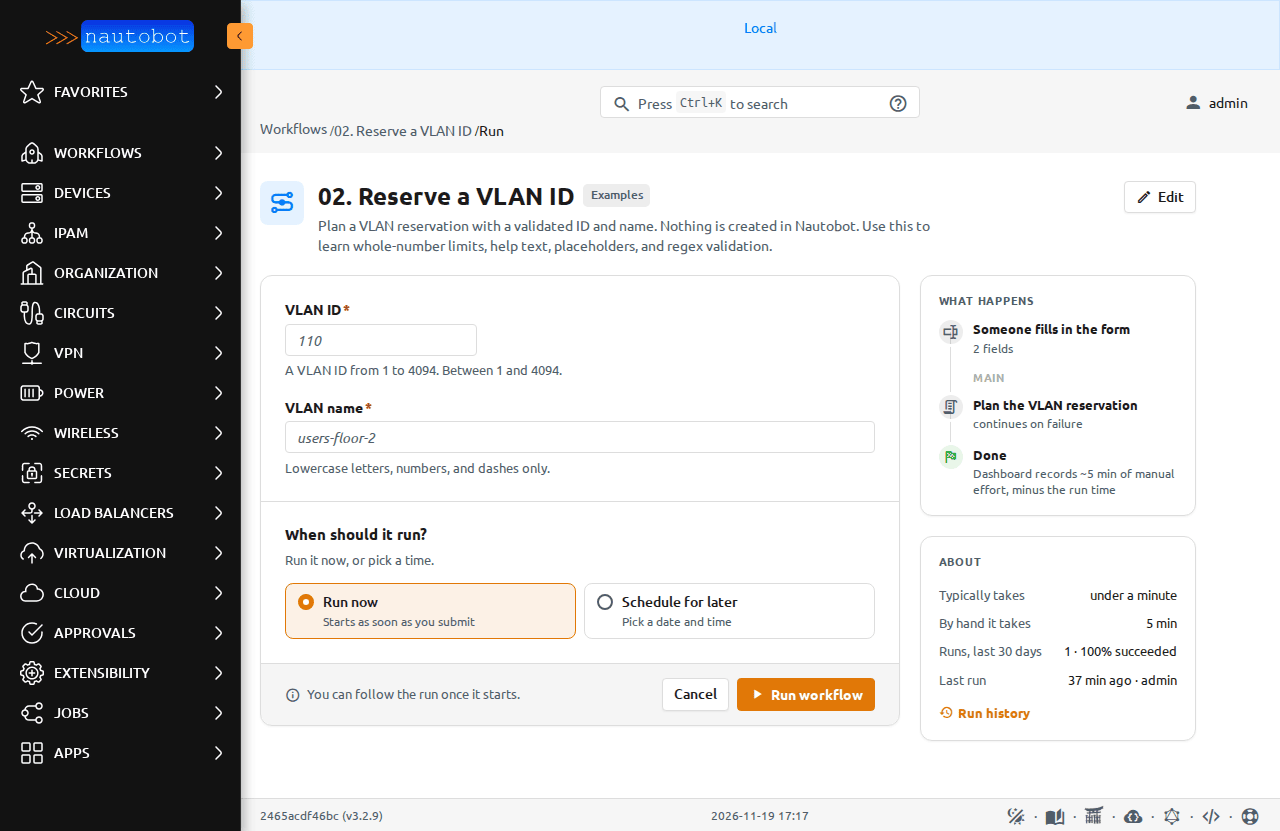
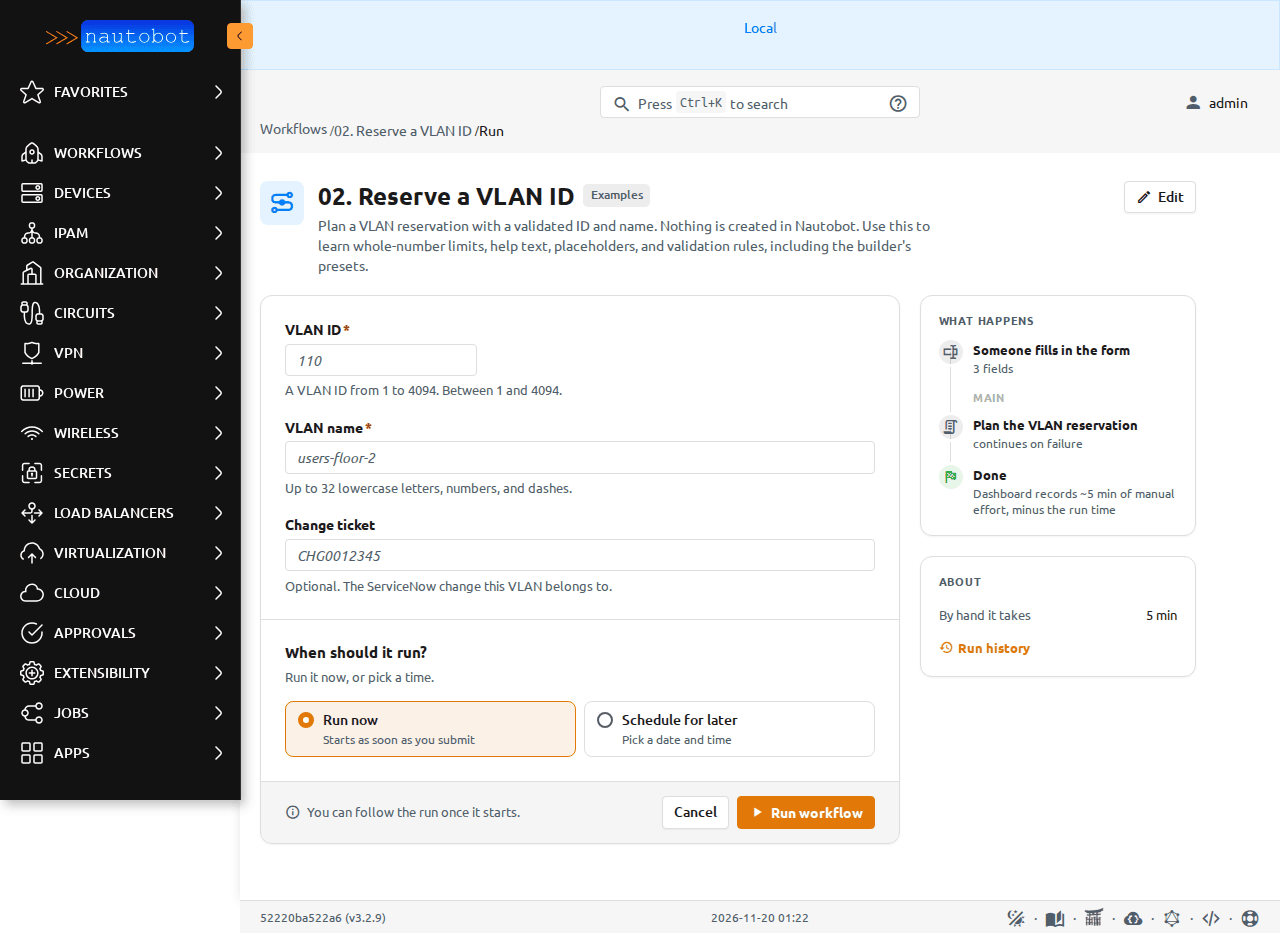
Tutorial: validation presets in examples 02 and 06, with new 02 screenshots

diff --git a/docs/user/examples_tutorial.md b/docs/user/examples_tutorial.md
@@ -47,7 +47,9 @@ Workflow: [`02-reserve-vlan-id`](https://github.com/eric-fetty/Nautobot-Demo-Wor
 
 ![Launch form for 02. Reserve a VLAN ID](../assets/images/examples/launch-02-reserve-vlan-id.png)
 
-This example adds a whole-number input with a minimum and a maximum, help text, a placeholder, and a regex rule on the VLAN name (with an optional `IGNORECASE` flag). Try an ID outside 1–4094 or a name with spaces and watch the form reject it before you submit.
+This example adds a whole-number input with a minimum and a maximum, help text, a placeholder, and [validation rules](inputs.md#validation-rules). The VLAN name has two rules: the builder's **VLAN name** preset, then a stricter site convention that allows only lowercase letters, numbers, and dashes. The form shows the message of the first rule a value fails, so `users floor 2` gets the preset's message and `Users_Floor_2` gets the convention's. The optional **Change ticket** uses the **ServiceNow change number** preset with the `IGNORECASE` flag. An empty value is not checked.
+
+Try an ID outside 1–4094, one of those names, or the ticket `CHG12`, and watch the form reject them before you submit. The server checks the same rules again when the form is sent.
 
 ![The VLAN ID and name rejected on the launch form](../assets/images/examples/launch-02-validation-errors.png)
 
@@ -92,6 +94,8 @@ Workflow: [`06-add-vlans`](https://github.com/eric-fetty/Nautobot-Demo-Workflows
 ![Launch form for 06. Add VLANs](../assets/images/examples/launch-06-add-vlans.png)
 
 This example introduces a table input (`listdict`) with typed columns, unique VLAN IDs, and row limits, plus a list of extra trunk ports, a pick-many tags field, and a several-objects picker for switches. On the launch form the table is an editable grid.
+
+Validation rules work per cell and per line. Every **Name** cell must pass the **VLAN name** preset and the lowercase convention, and the error names the row, for example *Row 1: Name: Use lowercase letters, numbers, and dashes.* Every line of **Extra trunk ports** must pass the **Interface name** preset and an Ethernet-or-Port-Channel rule, so `Vlan10` is rejected with *Line 2: Trunk ports must be Ethernet or Port-Channel interfaces.*
 
 ![The VLANs table with Add row, Download template and Import CSV](../assets/images/examples/launch-06-table-input.png)
 
